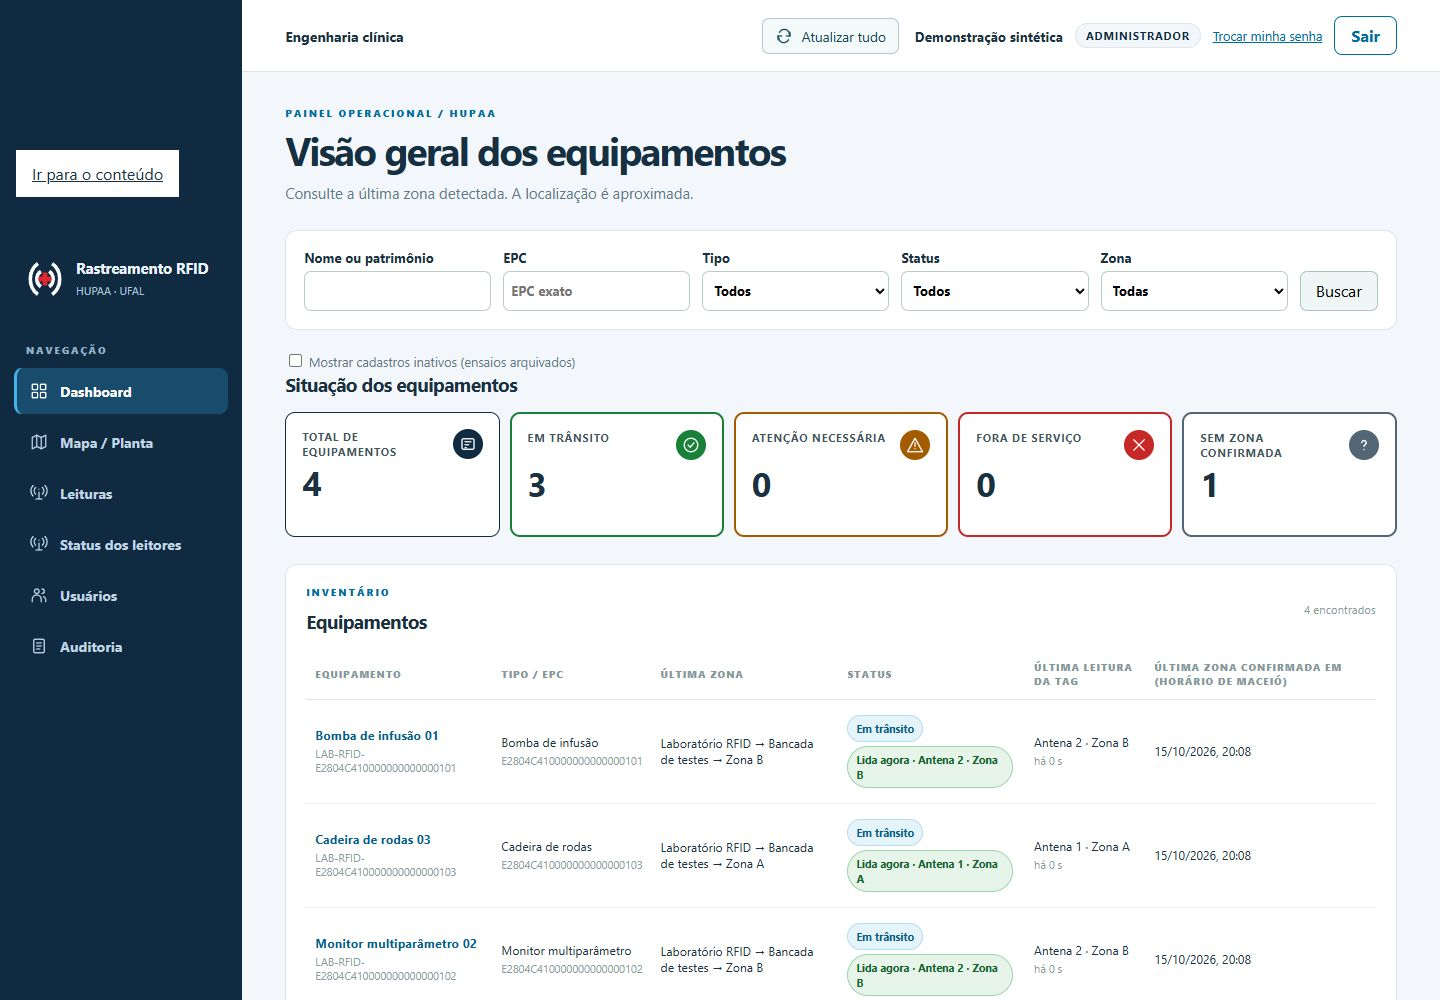
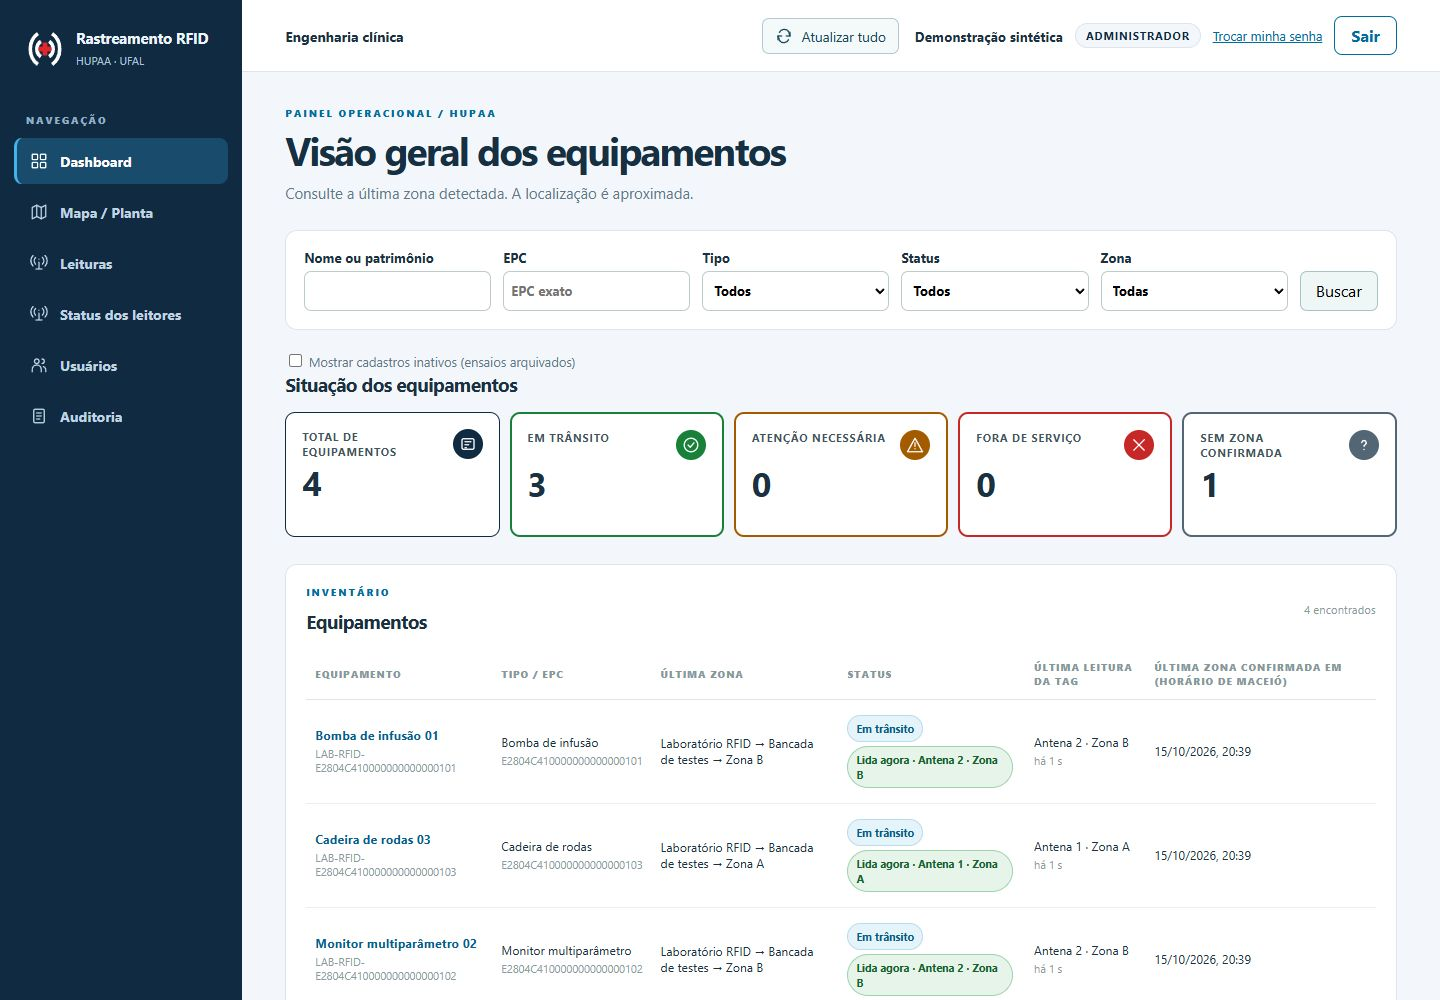
docs: incluir mapa do HUPAA e guia de mapeamento RFID

diff --git a/docs/operations/implantacao-hupaa.md b/docs/operations/implantacao-hupaa.md
@@ -1,0 +1,173 @@
+# Mapeamento e cadastro para um piloto no HUPAA
+
+Este guia descreve como configurar o software existente para um setor do HU.
+A planta atual é uma referência esquemática do segundo pavimento, com três
+zonas provisórias. Os nomes oficiais, limites, pontos de passagem, quantidade
+de leitores e cobertura RF precisam ser definidos com a equipe do hospital.
+Os exemplos abaixo são lógicos, sem representar uma instalação já executada.
+
+![Planta de referência do HUPAA com três zonas provisórias](../assets/screenshots/mapa-hupaa-referencia.jpg)
+
+## 1. Relacionar o espaço físico com o cadastro
+
+Cadastre **andar → setor → zonas**. Uma zona deve representar uma área cuja
+entrada/saída possa ser observada pelos portais planejados. As cores da planta
+representam contexto arquitetônico; não são automaticamente zonas de rastreamento.
+
+| Elemento da planta atual | Campo `referencia_planta` da zona |
+|---|---|
+| Zona principal 1 | `zona-1` |
+| Zona principal 2 | `zona-2` |
+| Zona principal 3 | `zona-3` |
+
+O nome exibido vem do cadastro e pode receber a nomenclatura oficial, mantendo
+a referência. Cada referência deve resolver **uma única zona ativa** no mapa
+atual. Referências duplicadas são consideradas ambíguas e não são desenhadas.
+Para outro pavimento ou mais áreas, adapte também as âncoras e o contorno em
+[`mapaConfig.ts`](../../frontend/src/config/mapaConfig.ts); apenas cadastrar
+uma quarta zona no banco não cria uma região nova no SVG.
+
+Use os endpoints existentes, com sessão administrativa:
+
+| Cadastro | Operação |
+|---|---|
+| Andar | `POST /andares` |
+| Setor e andar correspondente | `POST /setores` |
+| Zona, setor e referência da planta | `POST /zonas` ou `PATCH /zonas/{id}` |
+| Conferência da hierarquia | `GET /localizacoes/arvore` |
+
+Exemplo de corpo de criação de zona; substitua `setor_id` pelo ID retornado
+pelo cadastro do setor:
+
+```json
+{"nome":"Área piloto 1","setor_id":10,"referencia_planta":"zona-1"}
+```
+
+## 2. Cadastrar leitores, antenas e portais
+
+Um **leitor** tem identidade lógica MQTT (`reader_id`) e serial de fábrica
+separados. Uma **antena** pertence ao leitor e a uma porta normalizada pelo
+adapter. Um **portal** liga duas zonas; suas antenas podem pertencer ao mesmo
+leitor ou a leitores diferentes. O mapeamento vigente define lado A/B, zona e
+função da antena. Leitores não possuem um único `portal_id` direto.
+
+```mermaid
+flowchart LR
+    Z1[Zona 1] --- P12[Portal piloto 1-2]
+    P12 --- Z2[Zona 2]
+    Z2 --- P23[Portal piloto 2-3]
+    P23 --- Z3[Zona 3]
+    R1[reader-hu-01] --> A11[Porta 1 / lado A / Zona 1]
+    R1 --> A12[Porta 2 / lado B / Zona 2]
+    A11 -. mapeamento .-> P12
+    A12 -. mapeamento .-> P12
+    R2[reader-hu-02] --> A21[Porta 1 / lado A / Zona 2]
+    R2 --> A22[Porta 2 / lado B / Zona 3]
+    A21 -. mapeamento .-> P23
+    A22 -. mapeamento .-> P23
+```
+
+Dois leitores e duas portas por leitor servem apenas para explicar o cadastro.
+A quantidade, portas disponíveis, cabos e pontos de instalação dependem do
+levantamento físico e do equipamento efetivamente utilizado.
+
+| Ordem | Operação | Campos que precisam corresponder à instalação |
+|---|---|---|
+| 1 | `POST /leitores` | `reader_id`, fabricante, modelo e `identificador_serial` |
+| 2 | `POST /portais` | Nome, `zona_a_id`, `zona_b_id`, localização física |
+| 3 | `POST /antenas` | `leitor_id`, `porta_numero`, `portal_id`, `zona_associada_id`, função |
+| 4 | `POST /portais/{id}/mapeamentos` | `antena_id`, lado `a`/`b`, zona e função |
+| 5 | `GET /portais/{id}/topologia` | Conferir leitores, portas, lados e zonas vigentes |
+
+Por exemplo, após cadastrar uma antena do lado A, envie ao portal correspondente:
+
+```json
+{"antena_id":21,"lado":"a","zona_id":11,"funcao":"entrada"}
+```
+
+Os IDs são ilustrativos. A zona do lado A deve corresponder à `zona_a_id` do
+portal e à zona associada da antena; o mesmo vale para B. O sentido é determinado
+pela sequência das observações A→B ou B→A, não apenas pelo nome “entrada/saída”.
+Mudanças de mapeamento encerram a vigência anterior e preservam o histórico;
+consulte os registros existentes antes de criar um novo vínculo.
+
+### Rede, identidade MQTT e apresentação na planta
+
+O tópico segue o contrato do projeto, por exemplo:
+
+```text
+easy/dev/hupaa/portal-piloto-12/reader-hu-01/readings
+```
+
+O `reader_id` deve coincidir com o cadastro. A porta normalizada deve coincidir
+com `porta_numero`. O segmento de portal no tópico não substitui a topologia
+versionada no banco: é o par leitor/porta que resolve a antena e seu mapeamento.
+Confirme transporte, payload, contador, porta e unidade de RSSI no firmware
+usado. Não presuma suporte nativo ao heartbeat opcional do software.
+
+Conecte leitores e notebook à rede autorizada; o notebook atua como broker e
+receptor, sem hotspot. Use os [perfis de ambiente](execution.md) e credenciais
+MQTT fora do Git, com ACL por tópico. Comece pelo painel
+[Status dos leitores](../implementations/iss-024-status-leitores.md) para
+distinguir contato recente, silêncio e falha parcial de um portal.
+
+O cadastro no banco não posiciona fisicamente ícones na planta. Após confirmar
+os portais, preencha `hospitalPortals` em `mapaConfig.ts`, relacionando as
+referências das zonas ao ID ou nome exato do portal. Coordenadas `x`/`y` usam
+a escala lógica 0–100 e devem ser obtidas da planta aprovada. O renderer só
+exibe um portal quando cadastro ativo e lados A/B correspondem à configuração.
+
+Ícones de leitores/antenas no mapa do HU exigem configurar suas posições e
+repassá-las como `markers` em `MapaHospital`, seguindo o padrão existente em
+`MapaLaboratorio`. A tela hospitalar atual desenha zonas, equipamentos e
+portais configurados; não descobre posições de hardware automaticamente.
+
+## 3. Cadastrar equipamentos e vincular as tags
+
+Primeiro cadastre o tipo (`POST /tipos-equipamento`) e o equipamento
+(`POST /equipamentos`), com nome legível e identificador patrimonial/interno
+estável. Depois leia o EPC da etiqueta que será fixada nele e associe-o:
+
+```text
+POST /equipamentos/{equipamento_id}/tag
+```
+
+```json
+{"epc":"E2804C410000000000000201"}
+```
+
+Esse EPC é fictício: use o valor efetivamente lido da etiqueta. A API normaliza
+maiúsculas e aceita hexadecimal de comprimento par, entre 8 e 32 caracteres.
+Existe no máximo um vínculo ativo por tag e por equipamento. Confirme com
+`GET /equipamentos/{id}/tag` e `GET /tags/{epc}` antes do ensaio.
+O cadastro da tag não a coloca automaticamente em uma zona. A posição inicial
+deve surgir de passagem confirmada ou de correção manual autorizada e auditada.
+Uma etiqueta substituída usa o fluxo de substituição do vínculo, preservando
+as associações anteriores; não reutilize o EPC de outro equipamento ativo.
+
+```mermaid
+flowchart LR
+    TAG[EPC lido na etiqueta] --> V[Vínculo ativo com equipamento]
+    MQTT[Leitura MQTT] --> ANT[reader_id + porta → antena]
+    ANT --> MAP[Mapeamento vigente → portal / lado / zona]
+    MAP --> PASS[Sequência confirmada A/B]
+    V --> PASS
+    PASS --> HIST[Histórico e última zona confirmada]
+    HIST --> UI[Equipamento aparece na zona correspondente da planta]
+```
+
+O mapa mostra última zona confirmada e agregação por área. As bolinhas são
+ilustrativas: leituras recentes e RSSI não fornecem coordenadas exatas.
+
+## 4. Conferir o piloto antes de uso em campo
+
+No banco/perfil reservado ao ensaio, valide cada EPC, identidade do leitor,
+porta e topologia. Faça travessias rotuladas nos dois sentidos; compare leituras,
+passagens, histórico e zona apresentada. Confira também equipamento parado,
+sobreposição entre antenas, perda de conexão e retorno do leitor.
+
+Registre alcance e falsos positivos observados, limitações de cobertura e
+ajustes necessários nas janelas de inferência. Preserve as evidências e só
+adote nomes, limites e posições definitivos após a conferência com a equipe.
+A captura desta página demonstra a visualização do software; não comprova
+instalação, medição RF ou operação na rede do HU.

diff --git a/README.md b/README.md
@@ -21,6 +21,16 @@ sem leitura, permitindo comparar presença, zona confirmada e ausência de detec
 [Veja a galeria completa, o histórico e a evidência do pipeline](docs/experiments/galeria-pipeline.md).
 As imagens não representam ensaio RF nem dados de operação do hospital.
 
+### Planta de referência do HU
+
+![Planta esquemática do segundo pavimento do HUPAA com três zonas provisórias](docs/assets/screenshots/mapa-hupaa-referencia.jpg)
+
+A visualização do HU usa a planta de referência do segundo pavimento e três
+zonas provisórias. Nomes, limites e posições de hardware serão conferidos com
+a equipe do hospital. A captura mostra o esquema e seus vínculos de cadastro;
+os equipamentos do ensaio EASY continuam em suas próprias zonas.
+[Como mapear leitores, antenas, portais e cadastrar as tags no HU](docs/operations/implantacao-hupaa.md).
+
 ## Executar o projeto
 
 Requisitos: **Python 3.12**, **Node.js 22**, Docker com Compose v2 e ambiente gráfico para o simulador Flet. O desenvolvimento contempla Ubuntu 24.04 e Windows 11 com Docker Desktop/WSL2. Execute os comandos na raiz do repositório.
@@ -156,6 +166,29 @@ flowchart LR
 O tópico identifica o leitor; o cadastro resolve sua porta em uma antena ativa. Mapeamentos temporais definem lado, portal e zona. A consolidação de leituras alimenta o detector de passagens, que rejeita situações de sobreposição e respeita um período refratário. Apenas direção confirmada alimenta a movimentação automática. Histórico e projeção de localização são atualizados na mesma transação, sem fazer a zona regredir por eventos atrasados.
 
 Leitores e notebook usam a rede disponível. Mosquitto e PostgreSQL podem operar localmente; os modos externos substituem esses serviços por endpoints configurados. O funcionamento completo em campo depende da topologia real, da rede institucional e da calibração das antenas. [Arquitetura detalhada com hardware](docs/architecture/system-overview.md#arquitetura-com-leitores).
+
+### Mapeamento para o setor piloto do HU
+
+O cadastro segue **andar → setor → zona**. As zonas ligam-se ao desenho por
+`referencia_planta` (`zona-1`, `zona-2`, `zona-3`). Cada leitor recebe um
+`reader_id` próprio; cada porta é cadastrada como antena e associada ao portal,
+lado A/B e zona adjacente. Um portal pode reunir antenas de leitores diferentes.
+
+```mermaid
+flowchart LR
+    R[Leitor / reader_id] --> A[Antena / porta]
+    A --> P[Portal / lado A ou B / zona]
+    T[EPC da etiqueta] --> E[Equipamento cadastrado]
+    P --> PASS[Passagem com direção confirmada]
+    E --> PASS
+    PASS --> H[Histórico e última zona no mapa do HU]
+```
+
+Após cadastrar o tipo e o equipamento com seu identificador interno, associe o
+EPC efetivamente lido da etiqueta. Cadastrar uma tag não define sua localização:
+a zona é confirmada pelo pipeline de passagem ou por correção manual auditada.
+Os ícones da planta usam posições configuradas, sem cálculo de coordenadas por RSSI.
+[Guia técnico: cadastros, endpoints, mapeamentos, rede e conferência em campo](docs/operations/implantacao-hupaa.md).
 
 ## Arquitetura com simulador
 

diff --git a/docs/experiments/galeria-pipeline.md b/docs/experiments/galeria-pipeline.md
@@ -58,6 +58,20 @@ são agregados e ilustrativos; não representam coordenadas físicas dos ativos.
 
 ![Planta EASY com presença nas zonas e tabela de detectados](../assets/screenshots/mapa-easy-simulacao.jpg)
 
+## Planta de referência do HUPAA
+
+Uma captura complementar mostra a planta esquemática do segundo pavimento,
+com as referências `zona-1`, `zona-2` e `zona-3` ligadas a três zonas provisórias
+em uma base sintética isolada. Nenhum equipamento do ensaio EASY foi movido
+artificialmente para o hospital. A planta não representa hardware instalado.
+
+![Planta de referência do HU com três zonas provisórias](../assets/screenshots/mapa-hupaa-referencia.jpg)
+
+O [registro sanitizado desta captura](ingestion/mapa-hupaa-2026-10-15.json)
+identifica o cenário. O [guia de implantação do piloto](../operations/implantacao-hupaa.md)
+explica como cadastrar leitores e portas, associar antenas aos lados dos portais,
+vincular EPCs aos equipamentos e relacionar a topologia com a planta.
+
 ## Leituras por antena
 
 A janela de uma hora mostra as leituras de ambos os lados das travessias,

diff --git a/docs/architecture/system-overview.md b/docs/architecture/system-overview.md
@@ -183,6 +183,11 @@ As tabelas usam [grupos e ordem estável](../implementations/ordenacao-estavel-t
 
 ## Organização e documentação complementar
 
+O [guia de mapeamento no HUPAA](../operations/implantacao-hupaa.md) relaciona
+zonas da planta, leitores/portas, topologia temporal de portais e vínculo das
+tags com equipamentos. As posições físicas e a cobertura permanecem dependentes
+do levantamento e dos ensaios no setor escolhido.
+
 - [Operação e perfis](../operations/execution.md)
 - [Guia de módulos e contratos transacionais](../reference/code-guide.md)
 - [Modelo de dados](data-model.md) e [diagrama ER](er-diagrama.mermaid)

diff --git a/docs/README.md b/docs/README.md
@@ -7,6 +7,7 @@ Universitário Professor Alberto Antunes (HUPAA/UFAL).
 
 - [Apresentação, objetivos e início rápido](../README.md)
 - [Operação, requisitos, perfis e quatro modos de execução](operations/execution.md)
+- [Piloto no HUPAA: planta, leitores, antenas, portais e cadastro das tags](operations/implantacao-hupaa.md)
 - [Launcher de laboratório e simulador visual](lab_test_launcher.md)
 - [Validações e testes reproduzíveis](operations/validation.md)
 
